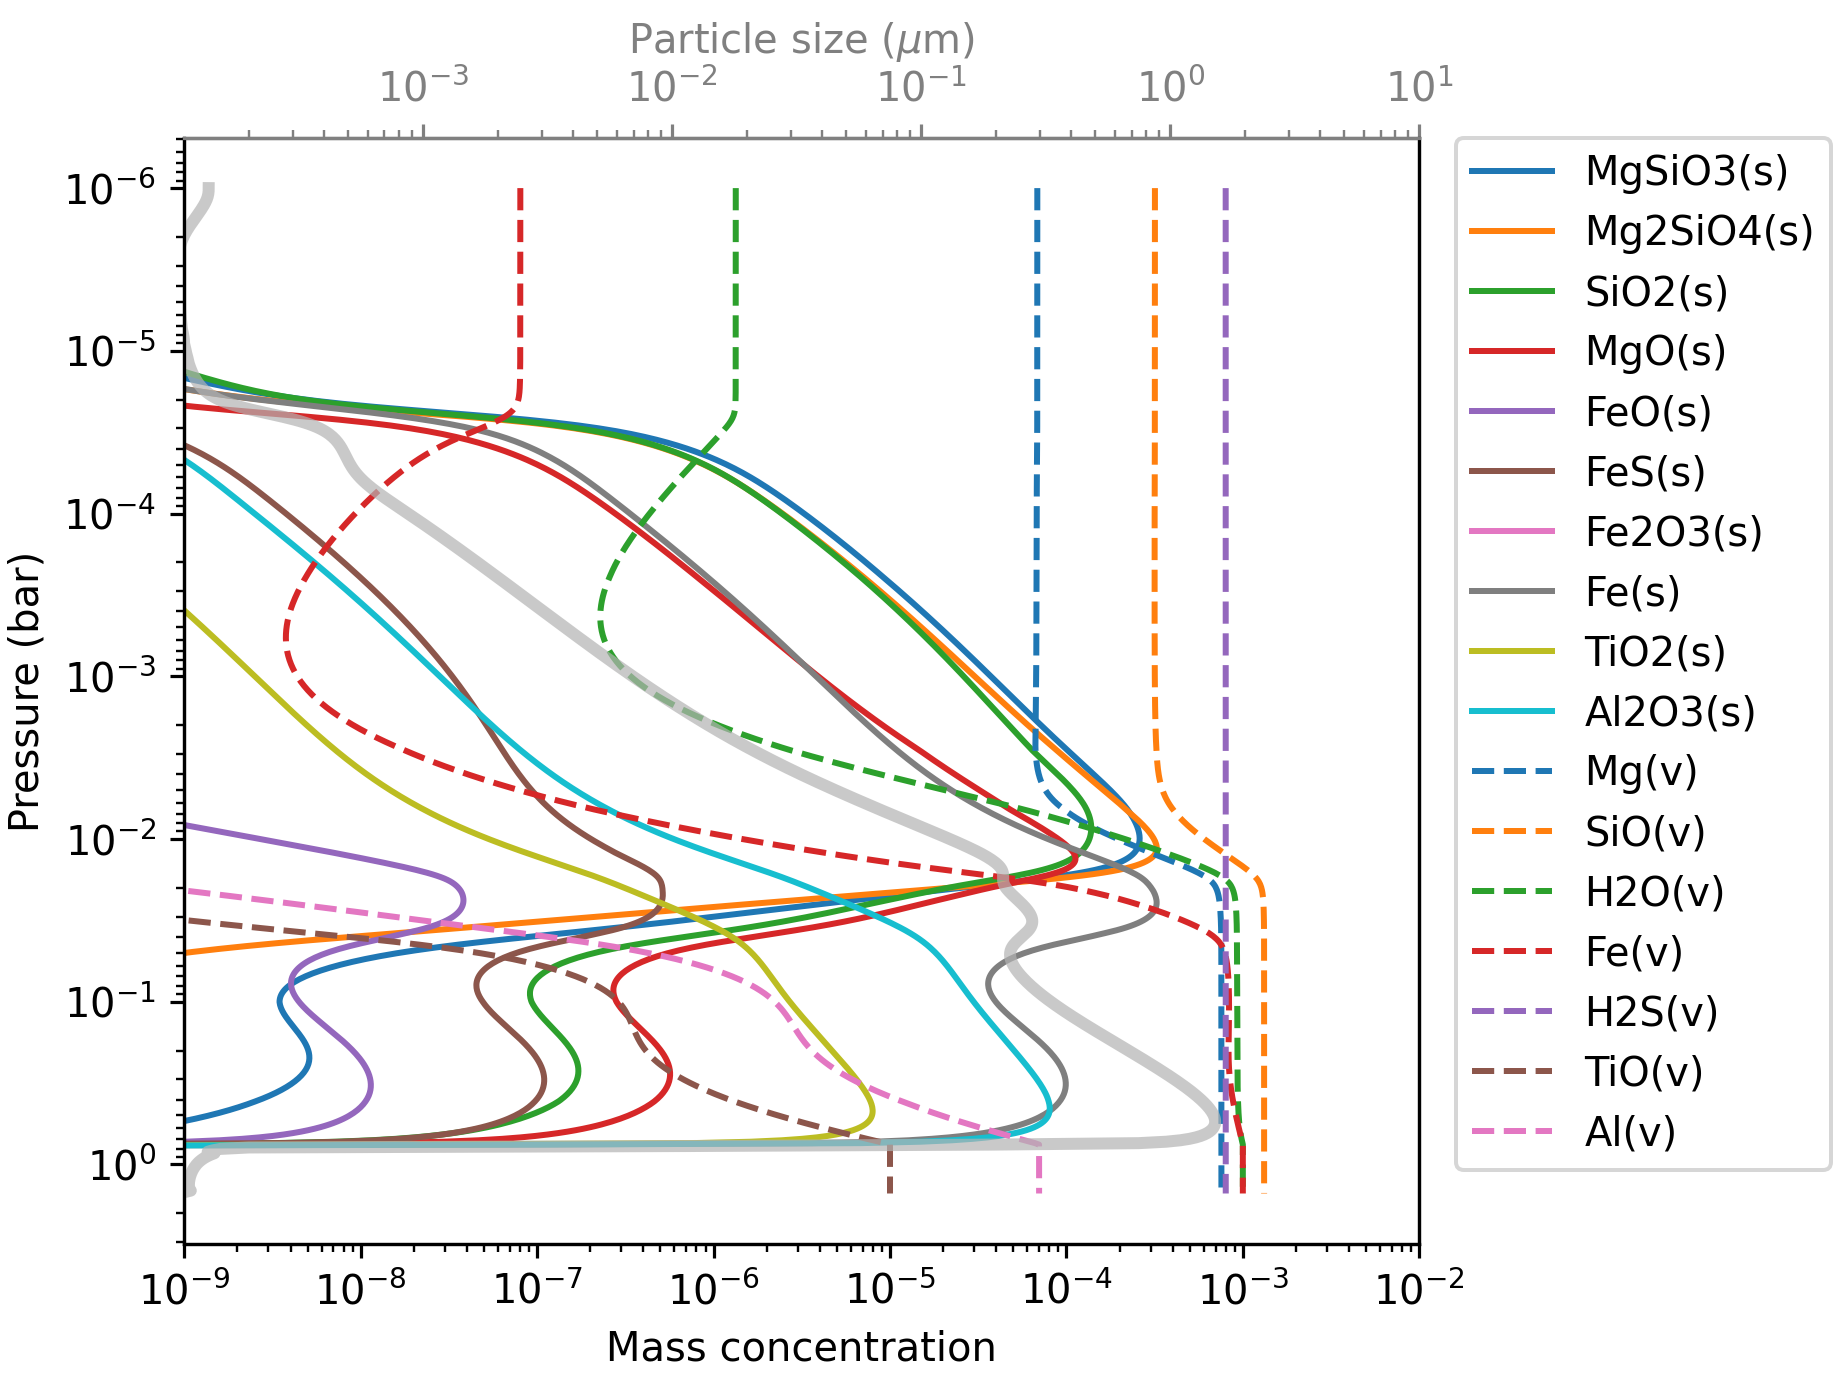
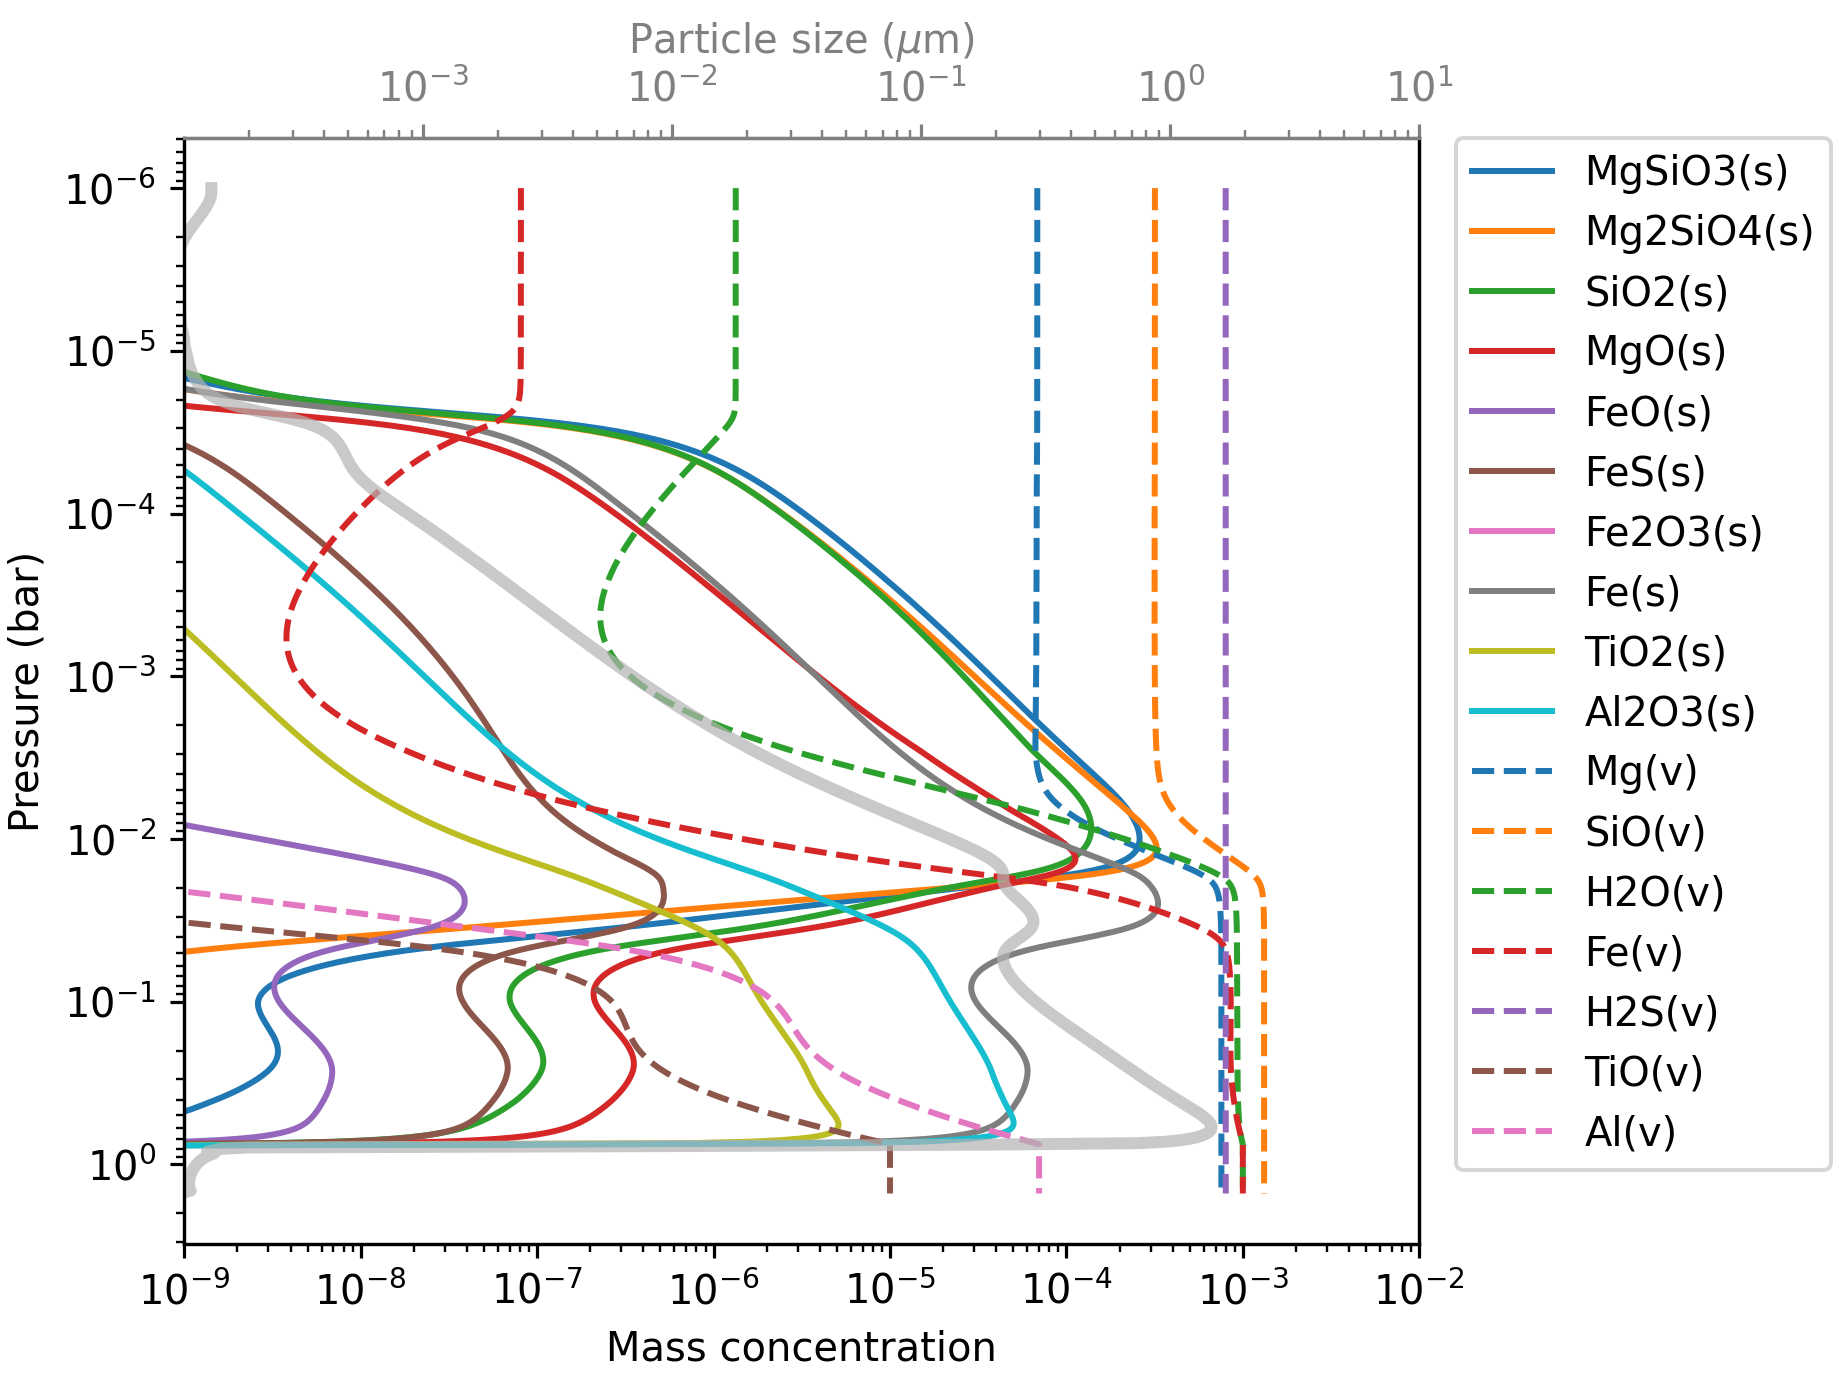
Support linear Stokes drag law.

diff --git a/functions.py b/functions.py
@@ -340,7 +340,7 @@ def cal_vsed(ap, cache):
     '''sedimentation velocity'''
     v_tharr = cache.v_th_grid
     rhoarr = cache.rho_grid
-    return -pars.g * ap * pars.rho_int / (v_tharr * rhoarr)
+    return -pars.g * ap * pars.rho_int / (v_tharr * rhoarr) * np.maximum(1, 4*ap/(9*cache.lmfp_grid))    # the last term accounts for Stokes regime
 
 def cal_t_coag_inv(ap, n_p, cache, vsed=None):
     '''coagulation time scale, Eq. (12) in OrmelMin2019'''
